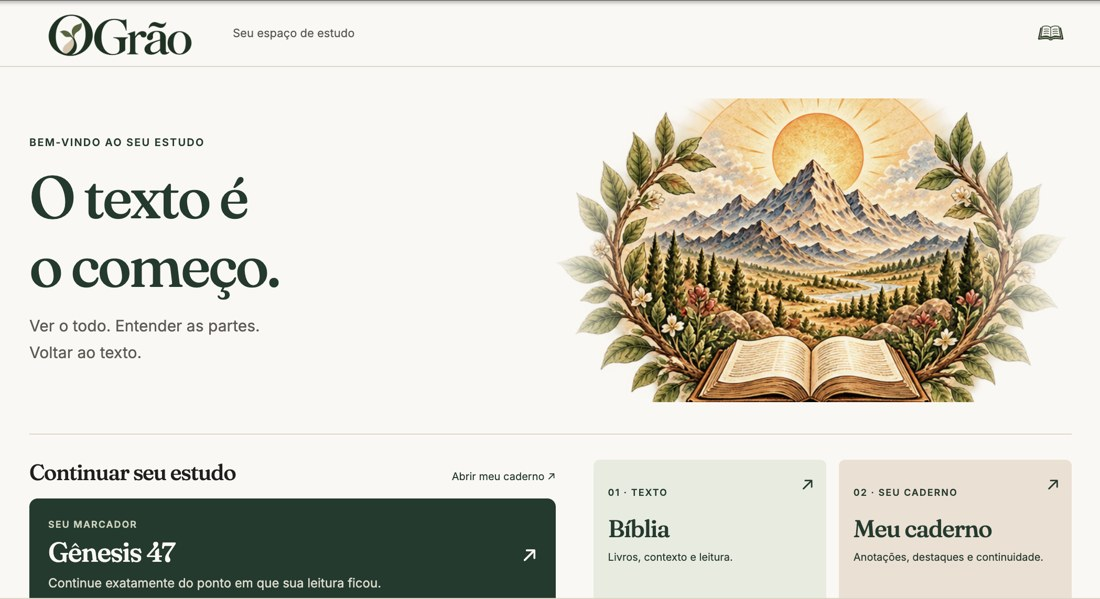
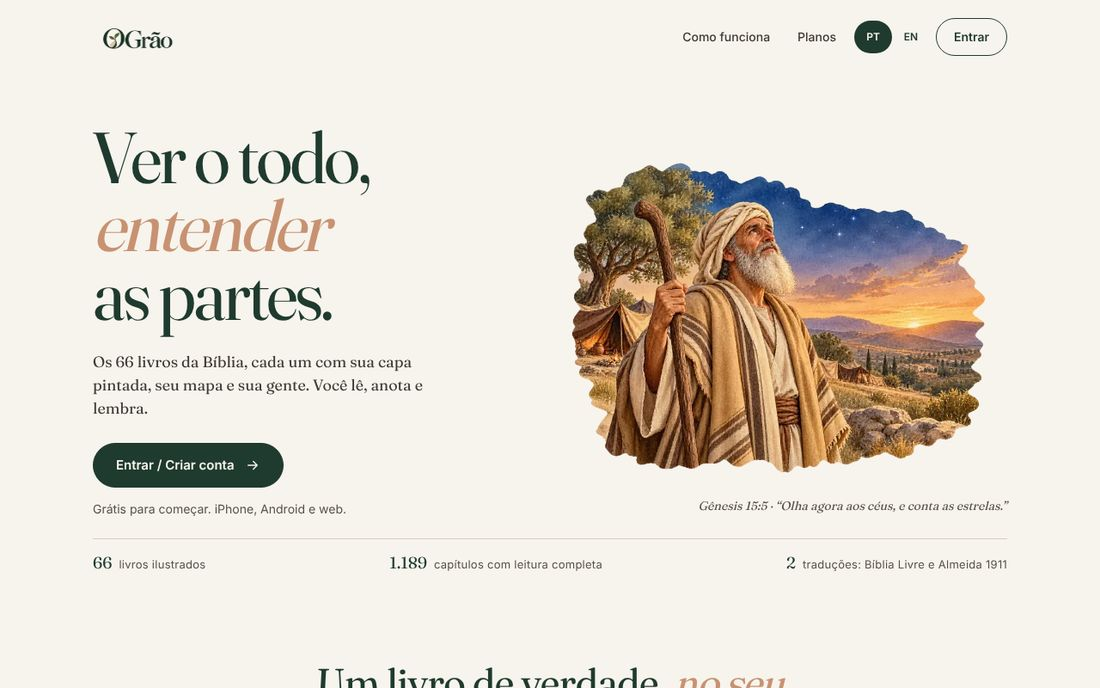
O Grão: card da página inicial como projeto disponível
- Selo "Disponível na web" (no lugar de "Em desenvolvimento") e o card
  com o destaque dos projetos que já estão no ar.
- Botão "Começar grátis" leva ao cadastro do app, no lugar do formulário
  "Quero testar antes".
- Texto curto, descrição e a frase da seção de projetos atualizados: o
  Grão já abre na web, e os apps estão chegando às lojas.
- Captura nova (o site atual do Grão), mais leve que a antiga (75 KB).

Claude-Session: https://claude.ai/code/session_01QAKWpm3rQSkm9RycJhKsxN

diff --git a/index.html b/index.html
@@ -137,7 +137,7 @@ a{color:#221D19}a:hover{color:#A9472B}
     <div style="max-width: 720px">
       <p class="sv" style="margin: 0 0 18px; font-size: 13px; font-weight: 600; letter-spacing: 0.26em; text-transform: uppercase; color: #6E6458">Projetos</p>
       <h2 class="sv" style="margin: 0; font-family: 'Newsreader', Georgia, serif; font-weight: 500; font-size: clamp(36px, 4.2vw, 58px); line-height: 1.05; letter-spacing: -0.025em">O que estou construindo</h2>
-      <p class="sv" style="margin: 20px 0 0; font-size: 17px; line-height: 1.7; color: #5E544A">Quatro já estão no mundo. O Grão está chegando — deixe seu e-mail e eu aviso quando sair.</p>
+      <p class="sv" style="margin: 20px 0 0; font-size: 17px; line-height: 1.7; color: #5E544A">Os cinco já estão no mundo. O Grão já abre na web — deixe seu e-mail e eu aviso quando os apps chegarem às lojas.</p>
     </div>
 
     <div class="ec-grid" style="margin-top: clamp(36px, 5vw, 56px)">
@@ -239,13 +239,13 @@ a{color:#221D19}a:hover{color:#A9472B}
         </div>
       </article>
 
-      <article class="ec-card" aria-labelledby="p-ograo">
+      <article class="ec-card is-live" aria-labelledby="p-ograo">
         <span class="ec-scene" aria-hidden="true"><span aria-hidden="true" style="position: absolute; inset: 0; background: linear-gradient(160deg, #F3F1E8 0%, #DFE4D3 100%)">
           <span style="position: absolute; left: -8%; bottom: -14%; width: 46%; aspect-ratio: 1; border-radius: 999px; background: rgba(46,71,51,0.07)"></span>
           <span style="position: absolute; left: 50%; bottom: 7%; width: 96%; height: 6%; transform: translateX(-50%); border-radius: 999px; background: radial-gradient(closest-side, rgba(30,45,33,0.32), rgba(30,45,33,0))"></span>
           <span style="position: absolute; left: 50%; top: 13%; width: 80%; transform: translateX(-50%)">
             <span style="display: block; background: #1E2620; border-radius: 10px 10px 3px 3px; padding: 2.4% 2.4% 3%; box-shadow: 0 30px 50px -26px rgba(30,45,33,0.55)">
-              <img src="home-assets/ograo-tela.jpg" alt="" style="display: block; width: 100%; aspect-ratio: 16 / 10; object-fit: cover; object-position: top left; border-radius: 2px">
+              <img src="home-assets/ograo-tela.jpg?v=2" alt="" style="display: block; width: 100%; aspect-ratio: 16 / 10; object-fit: cover; object-position: top left; border-radius: 2px">
             </span>
             <span style="display: block; position: relative; margin: 0 -7%; height: 10px; background: linear-gradient(#D9DCD2, #B9BDB1); border-radius: 0 0 12px 12px">
               <span style="position: absolute; left: 50%; top: 0; width: 16%; height: 4px; transform: translateX(-50%); background: #A9AEA1; border-radius: 0 0 6px 6px"></span>
@@ -253,17 +253,17 @@ a{color:#221D19}a:hover{color:#A9472B}
           </span>
         </span></span>
         <div class="ec-card-body">
-          <div class="ec-meta"><span class="ec-num">05</span><span class="ec-pill" style="color: #A9472B">Em desenvolvimento</span></div>
+          <div class="ec-meta"><span class="ec-num">05</span><span class="ec-pill ec-pill-live">Disponível na web</span></div>
           <h3 id="p-ograo">O Grão</h3>
-          <p class="ec-short">Estudo bíblico, anotações e pregações em um só lugar — no celular, no tablet e na web.</p>
+          <p class="ec-short">Estudo bíblico visual: os 66 livros com capa ilustrada, mapa e personagens, e suas anotações e pregações no mesmo lugar. Grátis para começar.</p>
           <div class="ec-actions">
-            <button type="button" class="ec-btn ec-btn-dark" data-lista="ograo" data-titulo="Quer testar O Grão antes de todo mundo?" data-gatilho="Eu te chamo quando abrir os primeiros acessos. Sem spam.">Quero testar antes</button>
+            <a class="ec-btn ec-btn-dark" href="https://ograo.emelyncampos.com.br/entrar" data-track="ograo">Começar grátis ↗</a>
             <a class="ec-sec ec-ul" href="https://ograo.emelyncampos.com.br/">Conhecer O Grão</a>
           </div>
           <details class="ec-more">
             <summary>Como começou</summary>
             <p class="ec-origin">Surgiu da minha vontade de estudar a Bíblia de um jeito mais dinâmico e visual — e de ter, no mesmo lugar, minhas anotações e as anotações das pregações do culto.</p>
-            <p class="ec-desc">Um app de estudo bíblico para qualquer pessoa que queira estudar a Palavra e guardar suas anotações e pregações em um só lugar, para rever sempre que precisar. A estrutura já está pronta e funcionando; agora estou finalizando o visual.</p>
+            <p class="ec-desc">Um app de estudo bíblico para qualquer pessoa que queira estudar a Palavra e guardar suas anotações e pregações em um só lugar, para rever sempre que precisar. Já funciona no navegador, no celular e no computador; os apps para iPhone e Android estão chegando às lojas.</p>
             <ul class="ec-feats">
               <li><strong>Estudar e destacar</strong>Marque o que chamou sua atenção na leitura.</li>
               <li><strong>Anotar</strong>Suas reflexões, citações e perguntas junto do texto.</li>
